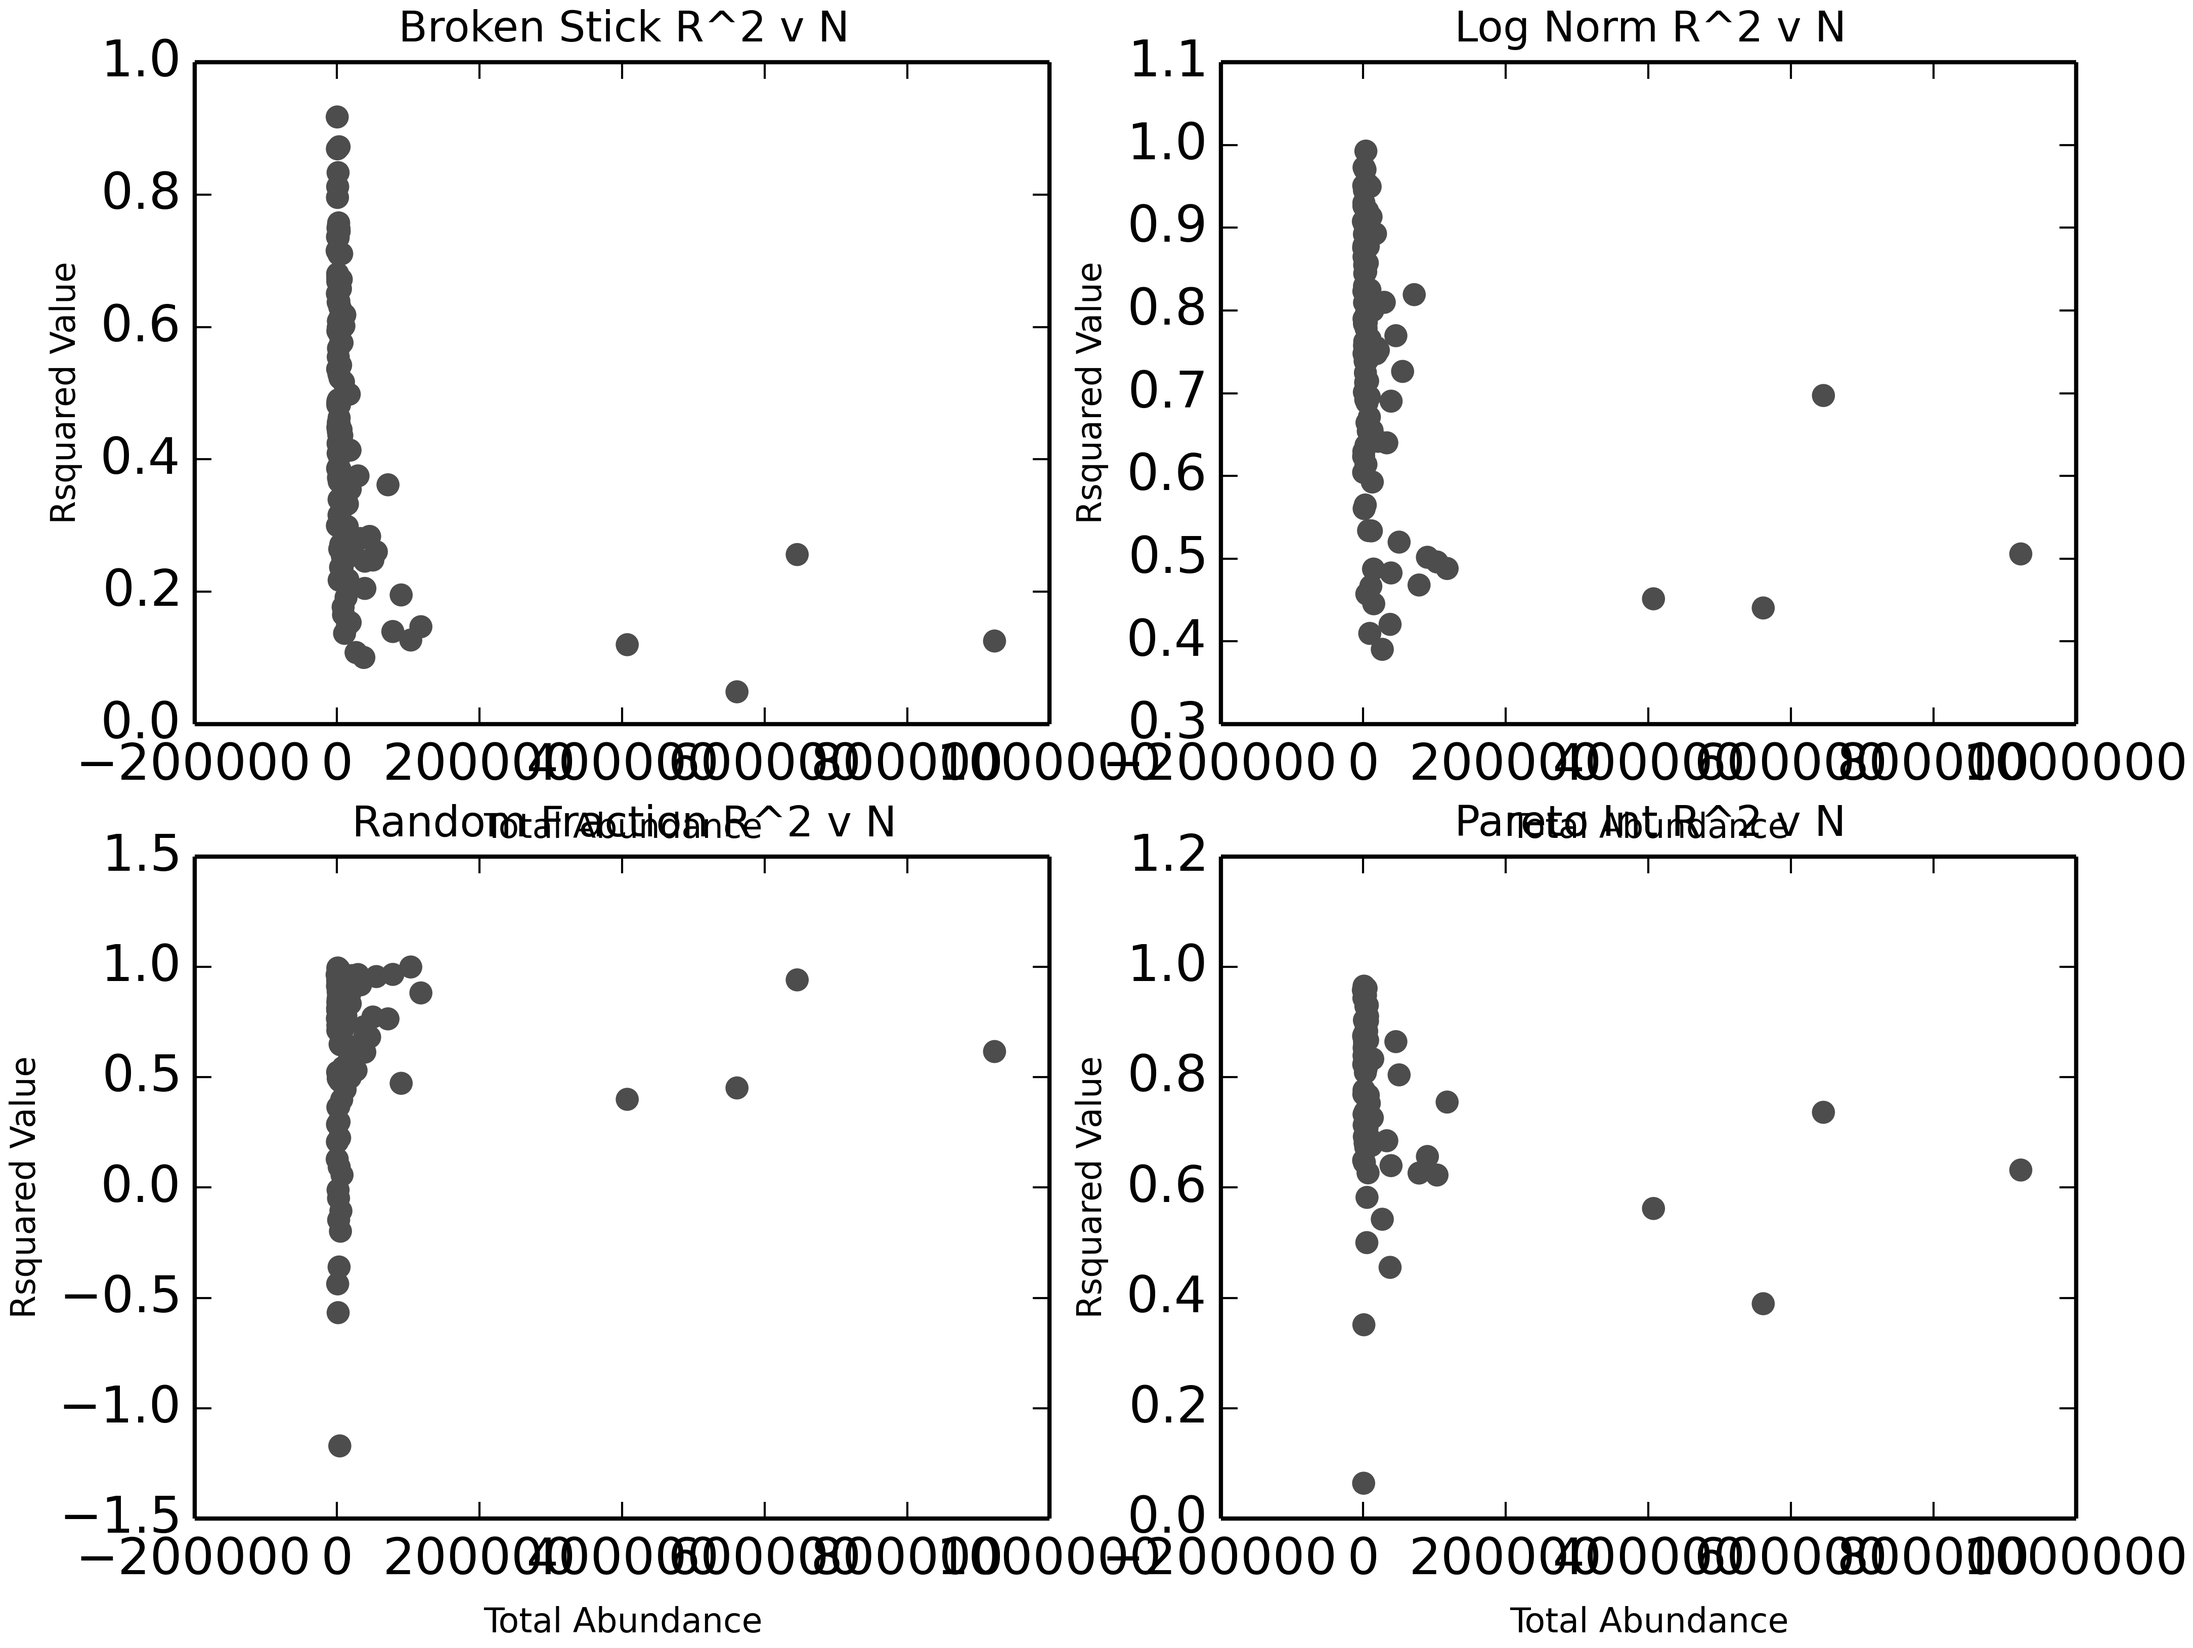
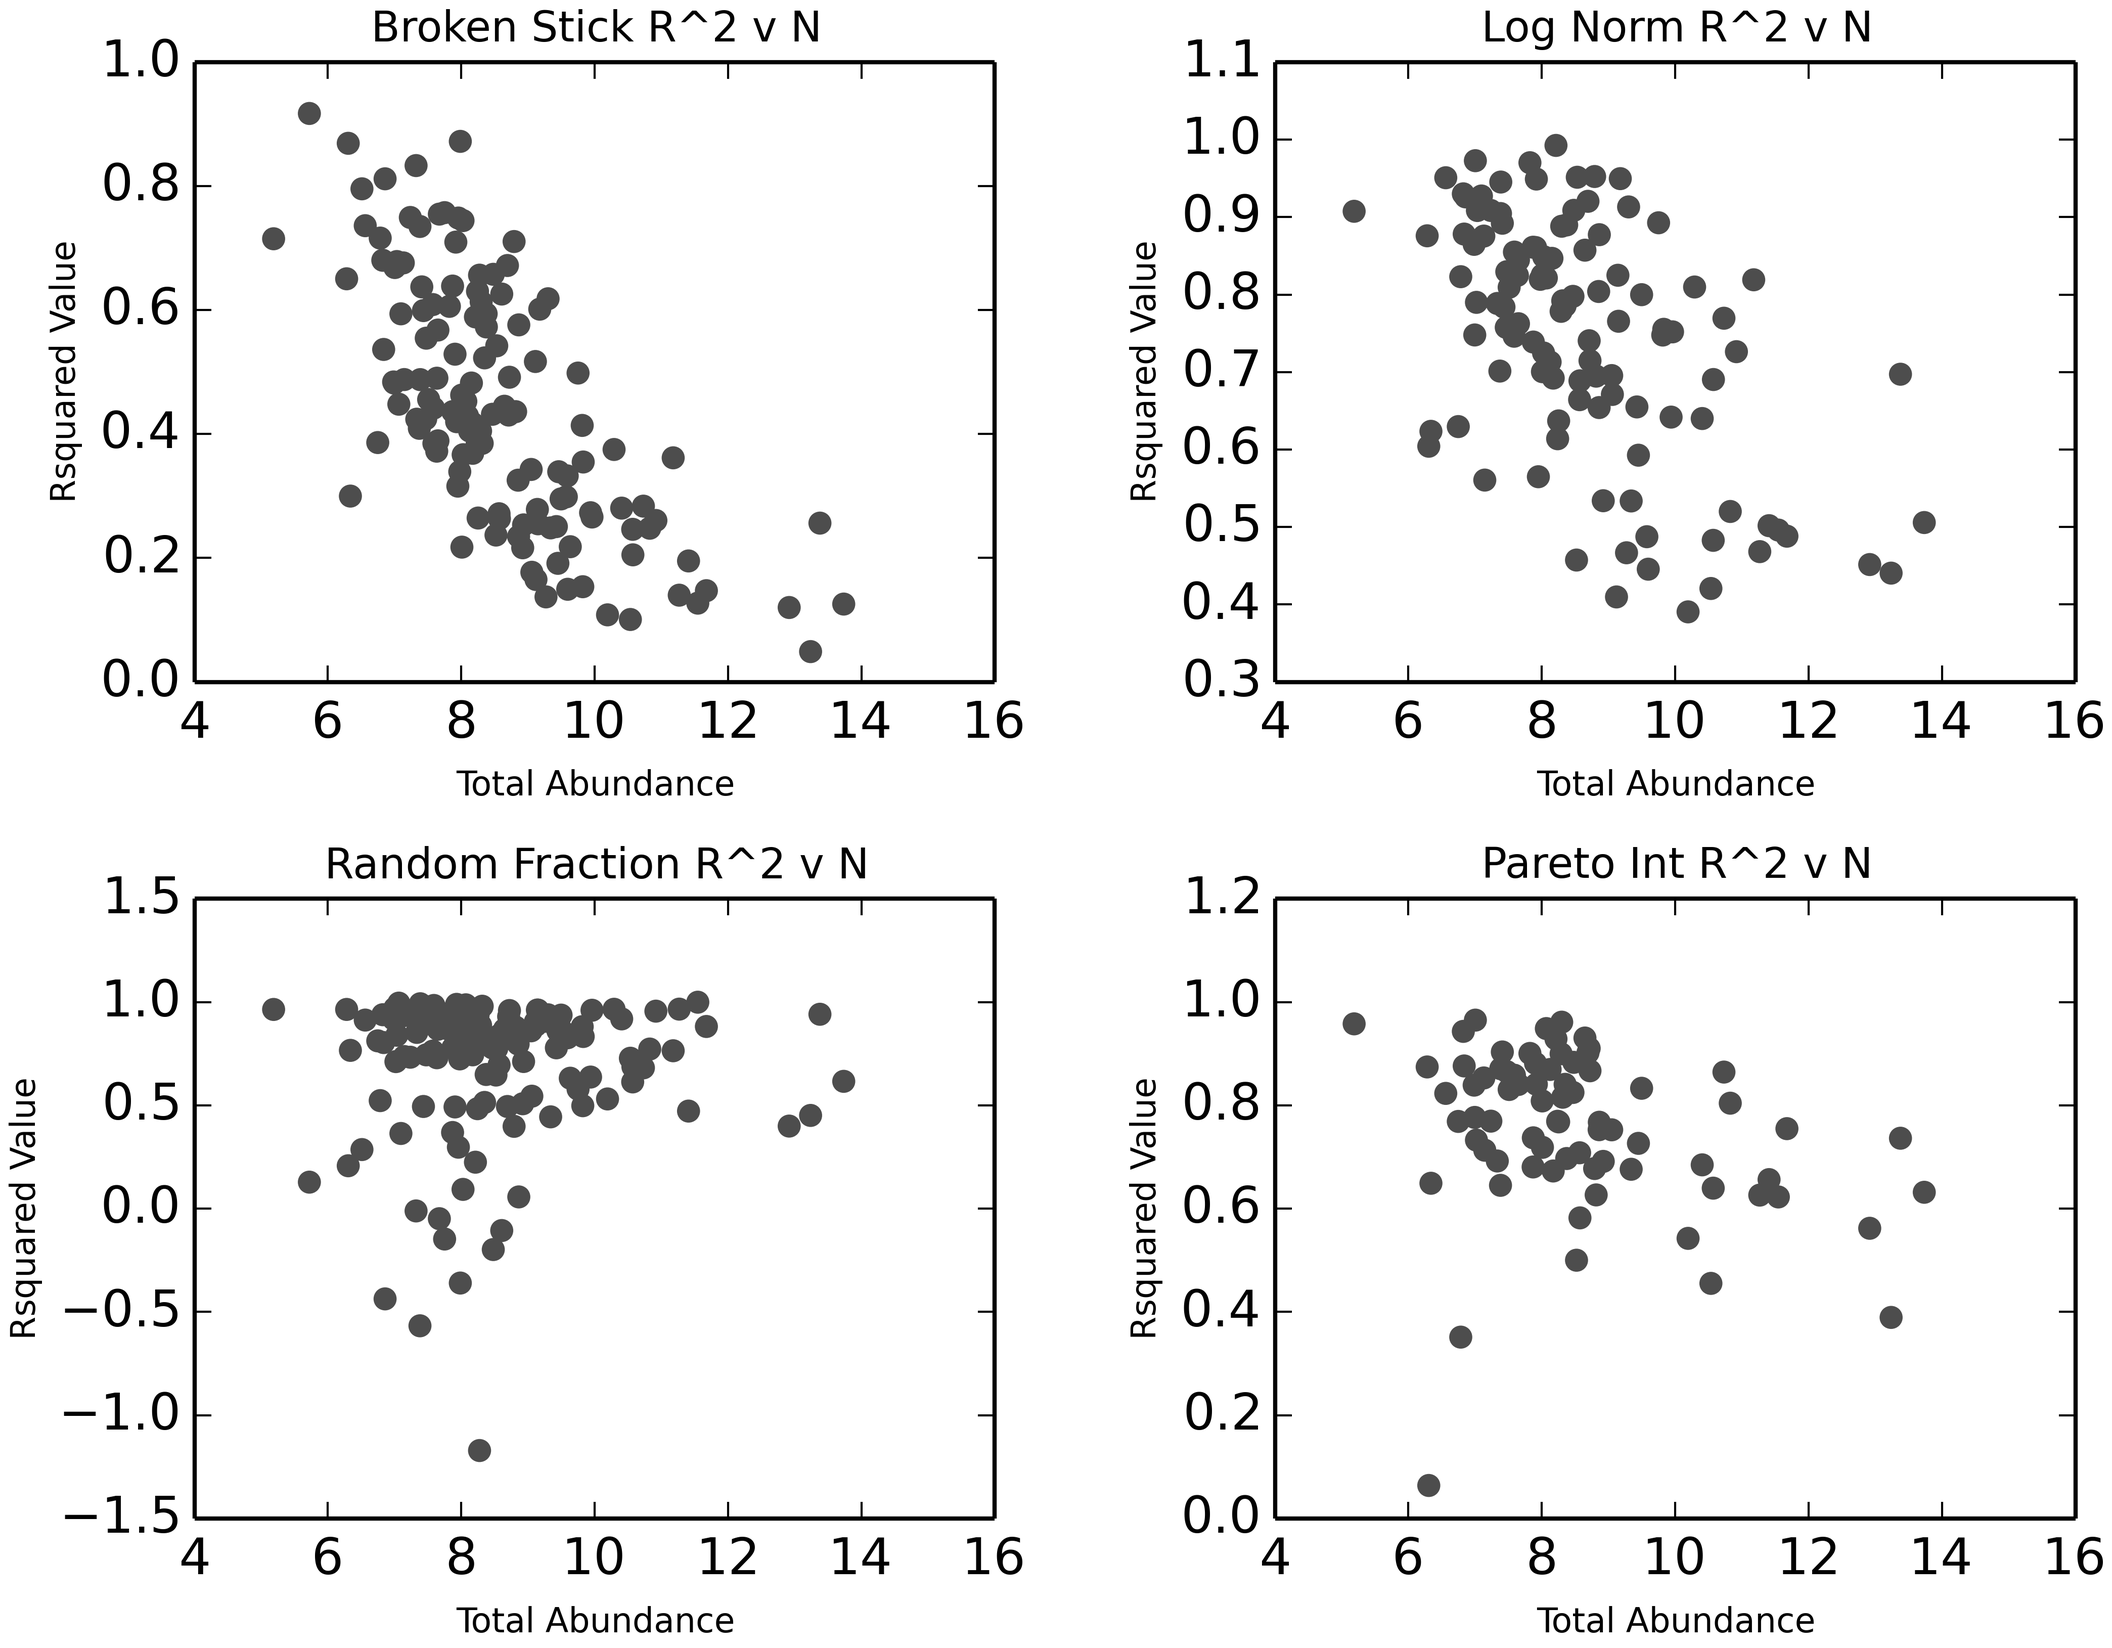
FIxed r2 plot

diff --git a/Projects/Mar2015meeting/Analyses.py b/Projects/Mar2015meeting/Analyses.py
@@ -180,9 +180,10 @@ def fig5(SADModels):
             N = sum(sad) # Find Total Abundance
             Ns.append(N)
 
-        plt.scatter(Ns, r2s, color='0.3', label=model) # label is for the legend
+        plt.scatter(np.log(Ns).tolist(), r2s, color='0.3', label=model) # label is for the legend
         plt.xlabel('Total Abundance', fontsize=8)
         plt.ylabel('Rsquared Value', fontsize=8)
+        plt.subplots_adjust(wspace = .35, hspace = .35)
         
         if model == 'SimBrokenStick':
             plt.title("Broken Stick R^2 v N", fontsize = 10)
@@ -226,4 +227,4 @@ SADModels = ['SimBrokenStick', 'SimLogNormInt', 'SimpleRandomFraction',
 #fig1(SADModels)
 #fig2(SADModels)
 #fig3(SADModels)
-#fig5(SADModels)
+fig5(SADModels)
